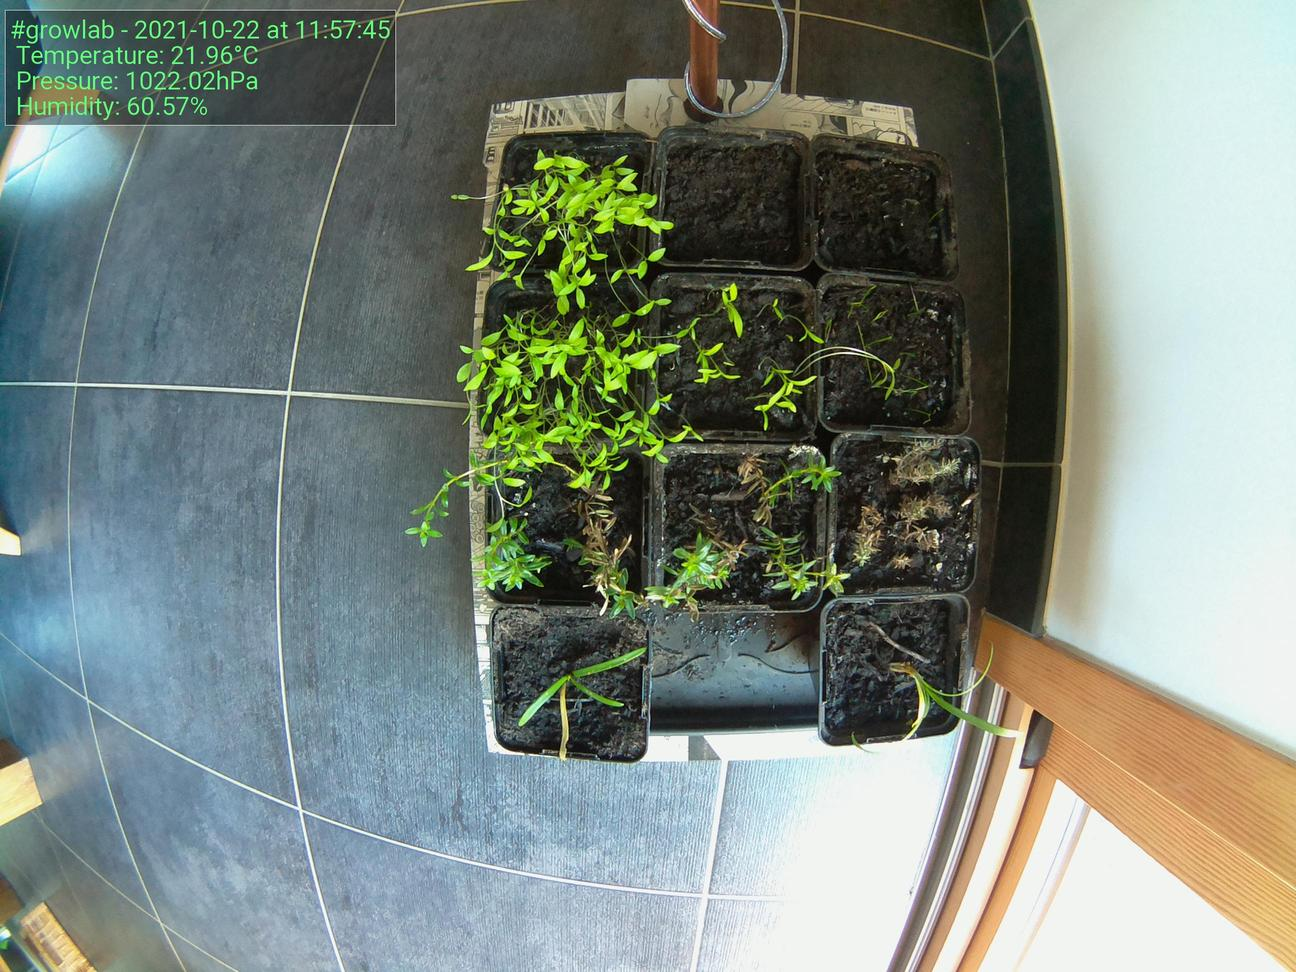
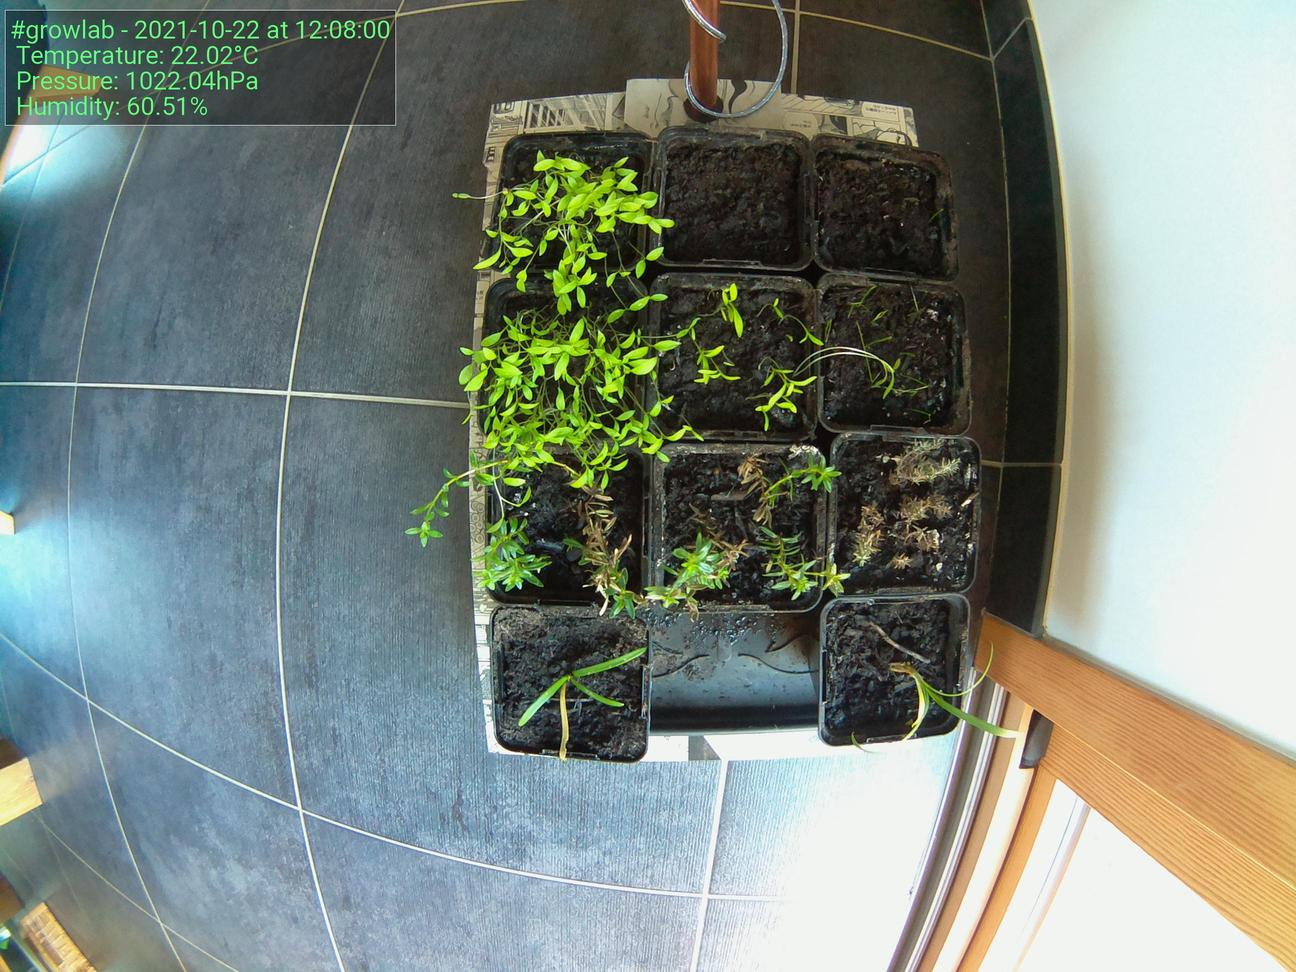
Update images at Fri 22 Oct 12:08:14 CEST 2021

diff --git a/docs/index.html b/docs/index.html
@@ -52,19 +52,19 @@
                             </tr>
                             <tr>
                                 <td>Time</td>
-                                <td>11:57:45</td>
+                                <td>12:08:00</td>
                             </tr>
                             <tr>
                                 <td>Temperature</td>
-                                <td>21.96°C</td>
+                                <td>22.02°C</td>
                             </tr>
                             <tr>
                                 <td>Humidity</td>
-                                <td>60.57%</td>
+                                <td>60.51%</td>
                             </tr>
                             <tr>
                                 <td>Pressure</td>
-                                <td>1022.02hPa</td>
+                                <td>1022.04hPa</td>
                             </tr>
                         </tbody>
                     </table>
@@ -72,7 +72,7 @@
 
                 <h5>Latest image</h5>
                 <div style="width: 85%;">
-                            <img class="figure-img img-fluid rounded" src="./preview.jpg?uid=1634896674.3707232">
+                            <img class="figure-img img-fluid rounded" src="./preview.jpg?uid=1634897293.9005451">
                 </div>
             </div>
         </div>
